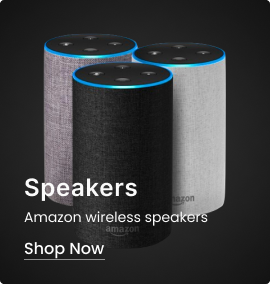
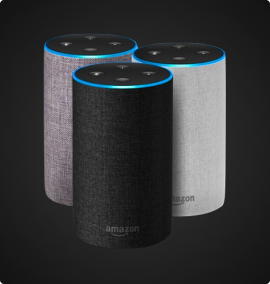
added the speakers

Changed region(s): [[0.0889, 0.7324, 0.7704, 0.7887], [0.0889, 0.6197, 0.5037, 0.7042], [0.0889, 0.8451, 0.3852, 0.9296]]

diff --git a/src/app/pages/home-page/home-page.html b/src/app/pages/home-page/home-page.html
@@ -123,7 +123,16 @@
         </span>
       </div>
       <div class="doublepics">
-        <img src="/assets/speakers.png" alt="speakers" />
+        <div class="speakers">
+          <img src="/assets/speakers.png" alt="speakers" />
+          <span>
+            <h2>Speakers</h2>
+            <br />
+            <p>Amazon wireless speakers</p>
+            <br />
+            <a href="#electronics">Shop Now</a>
+          </span>
+        </div>
         <img src="/assets/perfume.png" alt="perfume" />
       </div>
     </div>

diff --git a/src/app/pages/home-page/home-page.scss b/src/app/pages/home-page/home-page.scss
@@ -239,7 +239,8 @@
   align-items: center;
 }
 .psSection,
-.womensCollection {
+.womensCollection,
+.speakers {
   position: relative;
 
   span {
